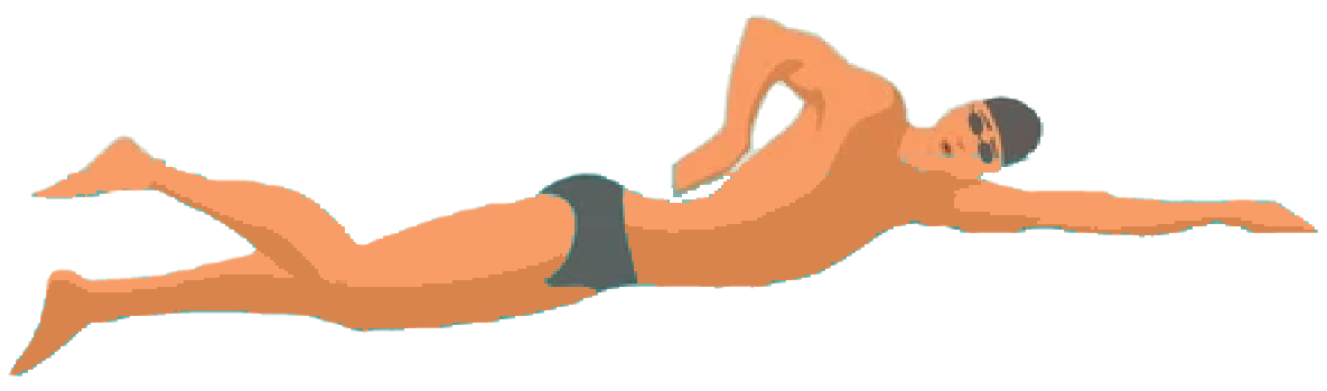
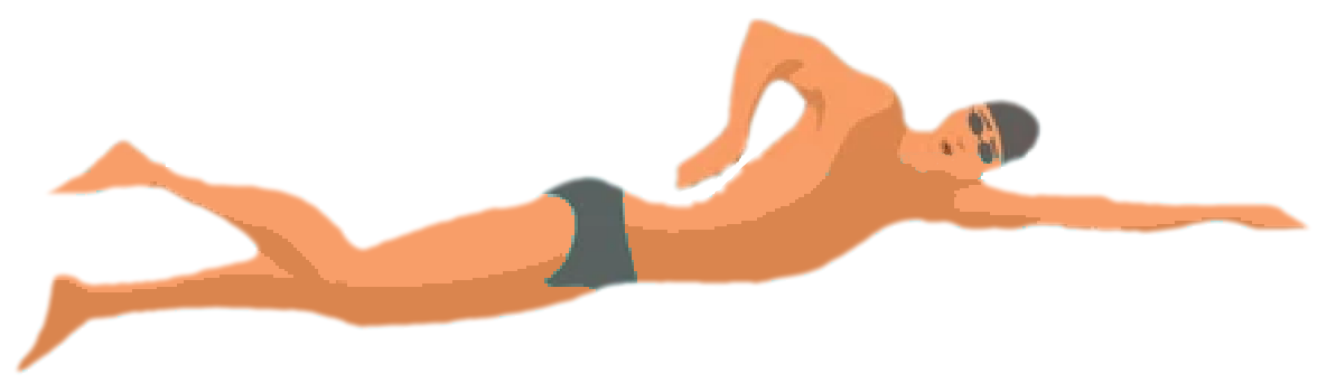
fix reset et ajout des diviseurs de points

diff --git a/src/routes/clicker/+page.svelte b/src/routes/clicker/+page.svelte
@@ -24,12 +24,9 @@
 
 
     const upgrades = new Map();
-    upgrades.set("double", {upgradeLevel: 0, upgradePrice: 0})
-    upgrades.set("Auto 1", {upgradeLevel: 0, upgradePrice: 0, incrementValue: 1})
-    upgrades.set("Auto 2", {upgradeLevel: 0, upgradePrice: 0, incrementValue: 5})
-    upgrades.set("Auto 3", {upgradeLevel: 0, upgradePrice: 0, incrementValue: 10})
 
 
+    setStartValue();
 
 
     function increment(){
@@ -104,12 +101,22 @@
 
     setInterval(() => {
         time--;
-        if(time == 0) {
-            score = 0;
-            time=5;
+        if(time === 0) {
+            setStartValue();
         }
         automatic();
     }, 1000)
+
+    function setStartValue() {
+        score = 0;
+        time=5;
+        upgrades.clear();
+        upgrades.set("double", {upgradeLevel: 0, upgradePrice: 30})
+        upgrades.set("Auto 1", {upgradeLevel: 0, upgradePrice: 30, incrementValue: 1})
+        upgrades.set("Auto 2", {upgradeLevel: 0, upgradePrice: 300, incrementValue: 5})
+        upgrades.set("Auto 3", {upgradeLevel: 0, upgradePrice: 3000, incrementValue: 10})
+    }
+
 
     function moveNageur() {
 
@@ -129,6 +136,11 @@
         goto("/")
     }
 
+    function dividePoints(multiplier) {
+        score = score*multiplier;
+    }
+
+
 </script>
 
 
@@ -142,7 +154,7 @@
     <nav class="nav-area">
         <ul class="menu">
             <li><a on:mouseover={redirectHome} href="#">Accueil</a></li>
-            <li><a href="#">À propos</a>
+            <li><a href="">À propos</a>
                 <ul>
                     <li><a href="#">Paramètres</a></li>
                     <li><a href="#">Contact</a></li>
@@ -182,7 +194,7 @@
                 <ul>
                     <li><a href="#">Paramètres</a></li>
                     <li><a href="#">Contact</a></li>
-                    <li><a href="#">Améliorations</a>
+                    <li><a on:mouseover={dividePoints(0.9)} href="#">Améliorations</a>
                 </ul>
             </li>
         </ul>
@@ -190,14 +202,17 @@
 
 
     <div class="stats">
-        <a> {score} <img src="./clicker/points.png"> </a>
-        <a> Mode inversé : {inversed}</a>
+        <a> {parseInt(score)} <img src="./clicker/points.png"> </a>
+        <a> Mode inversé : {(inversed) ? "Activé" : "Désactivé"} </a>
         <a> {scorePerSeconds} <img src="./clicker/points.png">/ seconde </a>
     </div>
 
     <div class="clicker-main">
-        <div bind:this={clickerContainer} class="clicker-img">
-            <button bind:this={nageur} style="left: {nageurLeft}px; top: {nageurTop}px;" type="button" class="nageur" on:click={increment}>
+        <div bind:this={clickerContainer}  class="clicker-img">
+            <div on:click={dividePoints(0.5)} class="divide-click">
+
+            </div>
+            <button bind:this={nageur} style="left: {nageurLeft}px; top: {nageurTop}px;" type="button" class="nageur" on:click={increment} >
             </button>
 
             <div bind:this={notBuyContainer} class="buy-upgrade-cancel">
@@ -223,6 +238,7 @@
             - Un mode inversé qui décremente le score plutot que de l'incrementer <br>
             - Les améliorations cachés dans des sous-menus interminable
             - Un reset du score apres 5 secondes d'inactivités <br>
+            - Ne ratez pas la cible, ou vous perdrez la moitié de vos points <br>
             - Et quelques autres détails... <br>
 
         </p>
@@ -236,6 +252,12 @@
 :global(body){
     margin: 0;
 }
+div.divide-click {
+    position: absolute;
+    width: inherit;
+    height: inherit;
+    z-index: 0;
+}
 
 div.Clicker{
     background-color: #86bbd8;
@@ -247,6 +269,7 @@ div.Clicker{
     align-items: center;
     flex-direction: column;
     position: relative;
+    font-family: 'Inter', sans-serif;
 }
 
 div.Clicker>h1{
@@ -289,6 +312,7 @@ button.nageur {
     background-color: rgba(255, 255, 255, 0);
     border: 0;
     transition: 0.2s;
+    z-index: 100;
 }
 
 button.nageur:hover {
